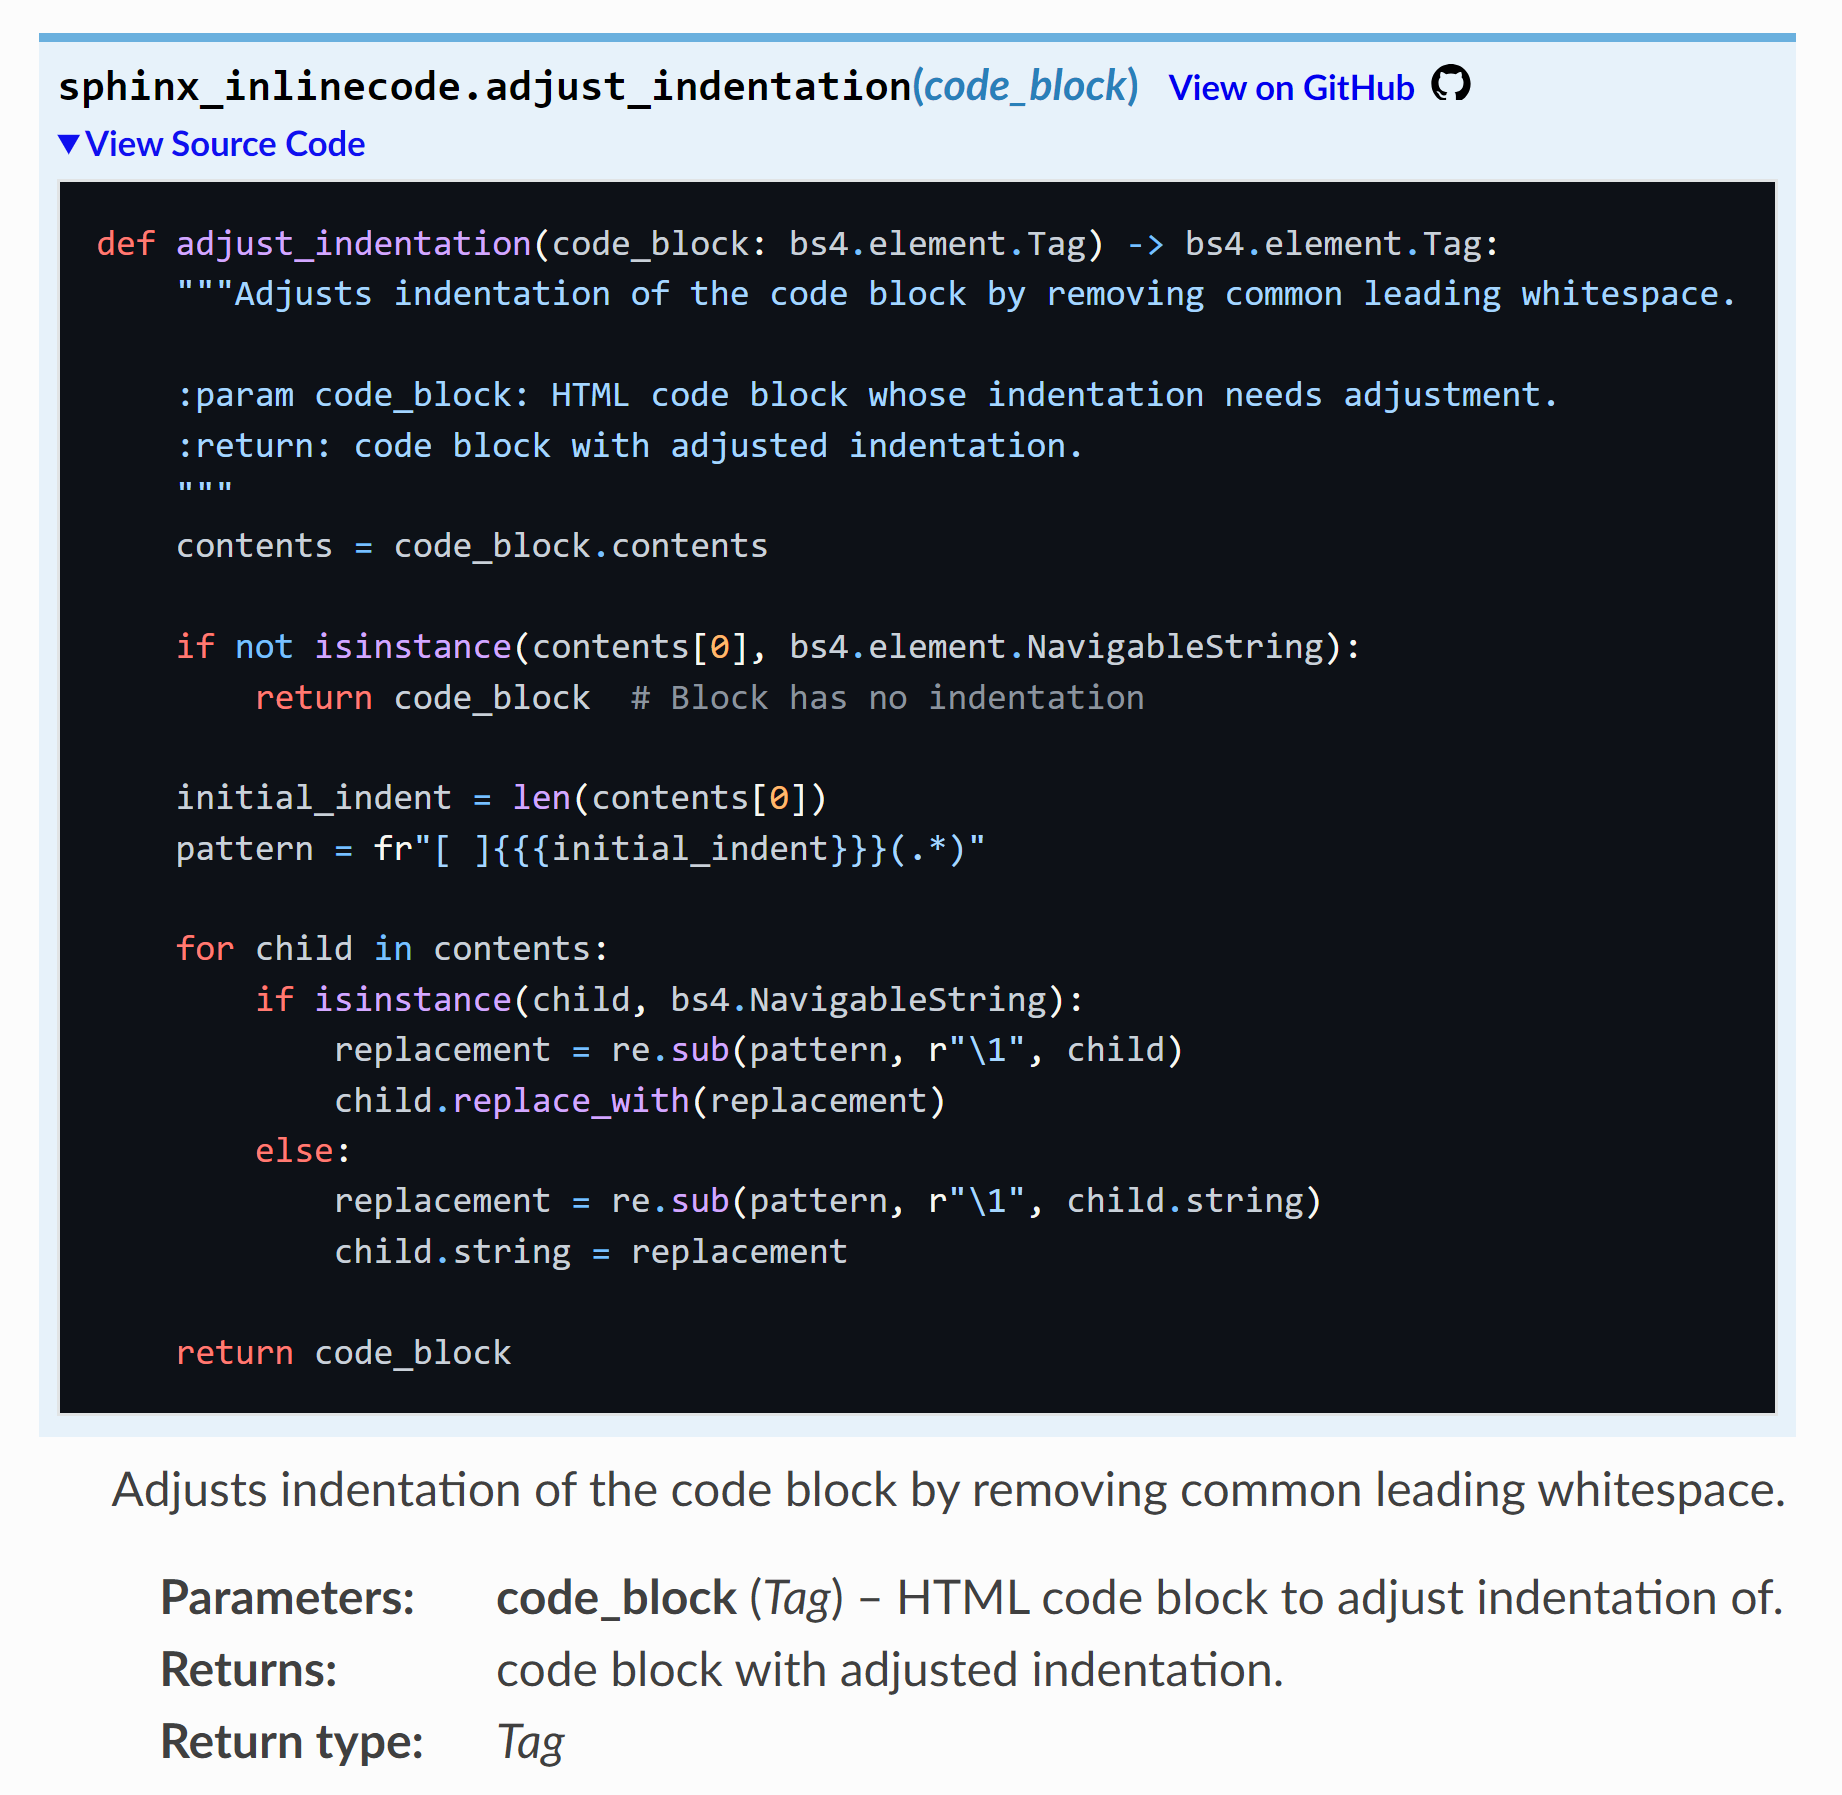
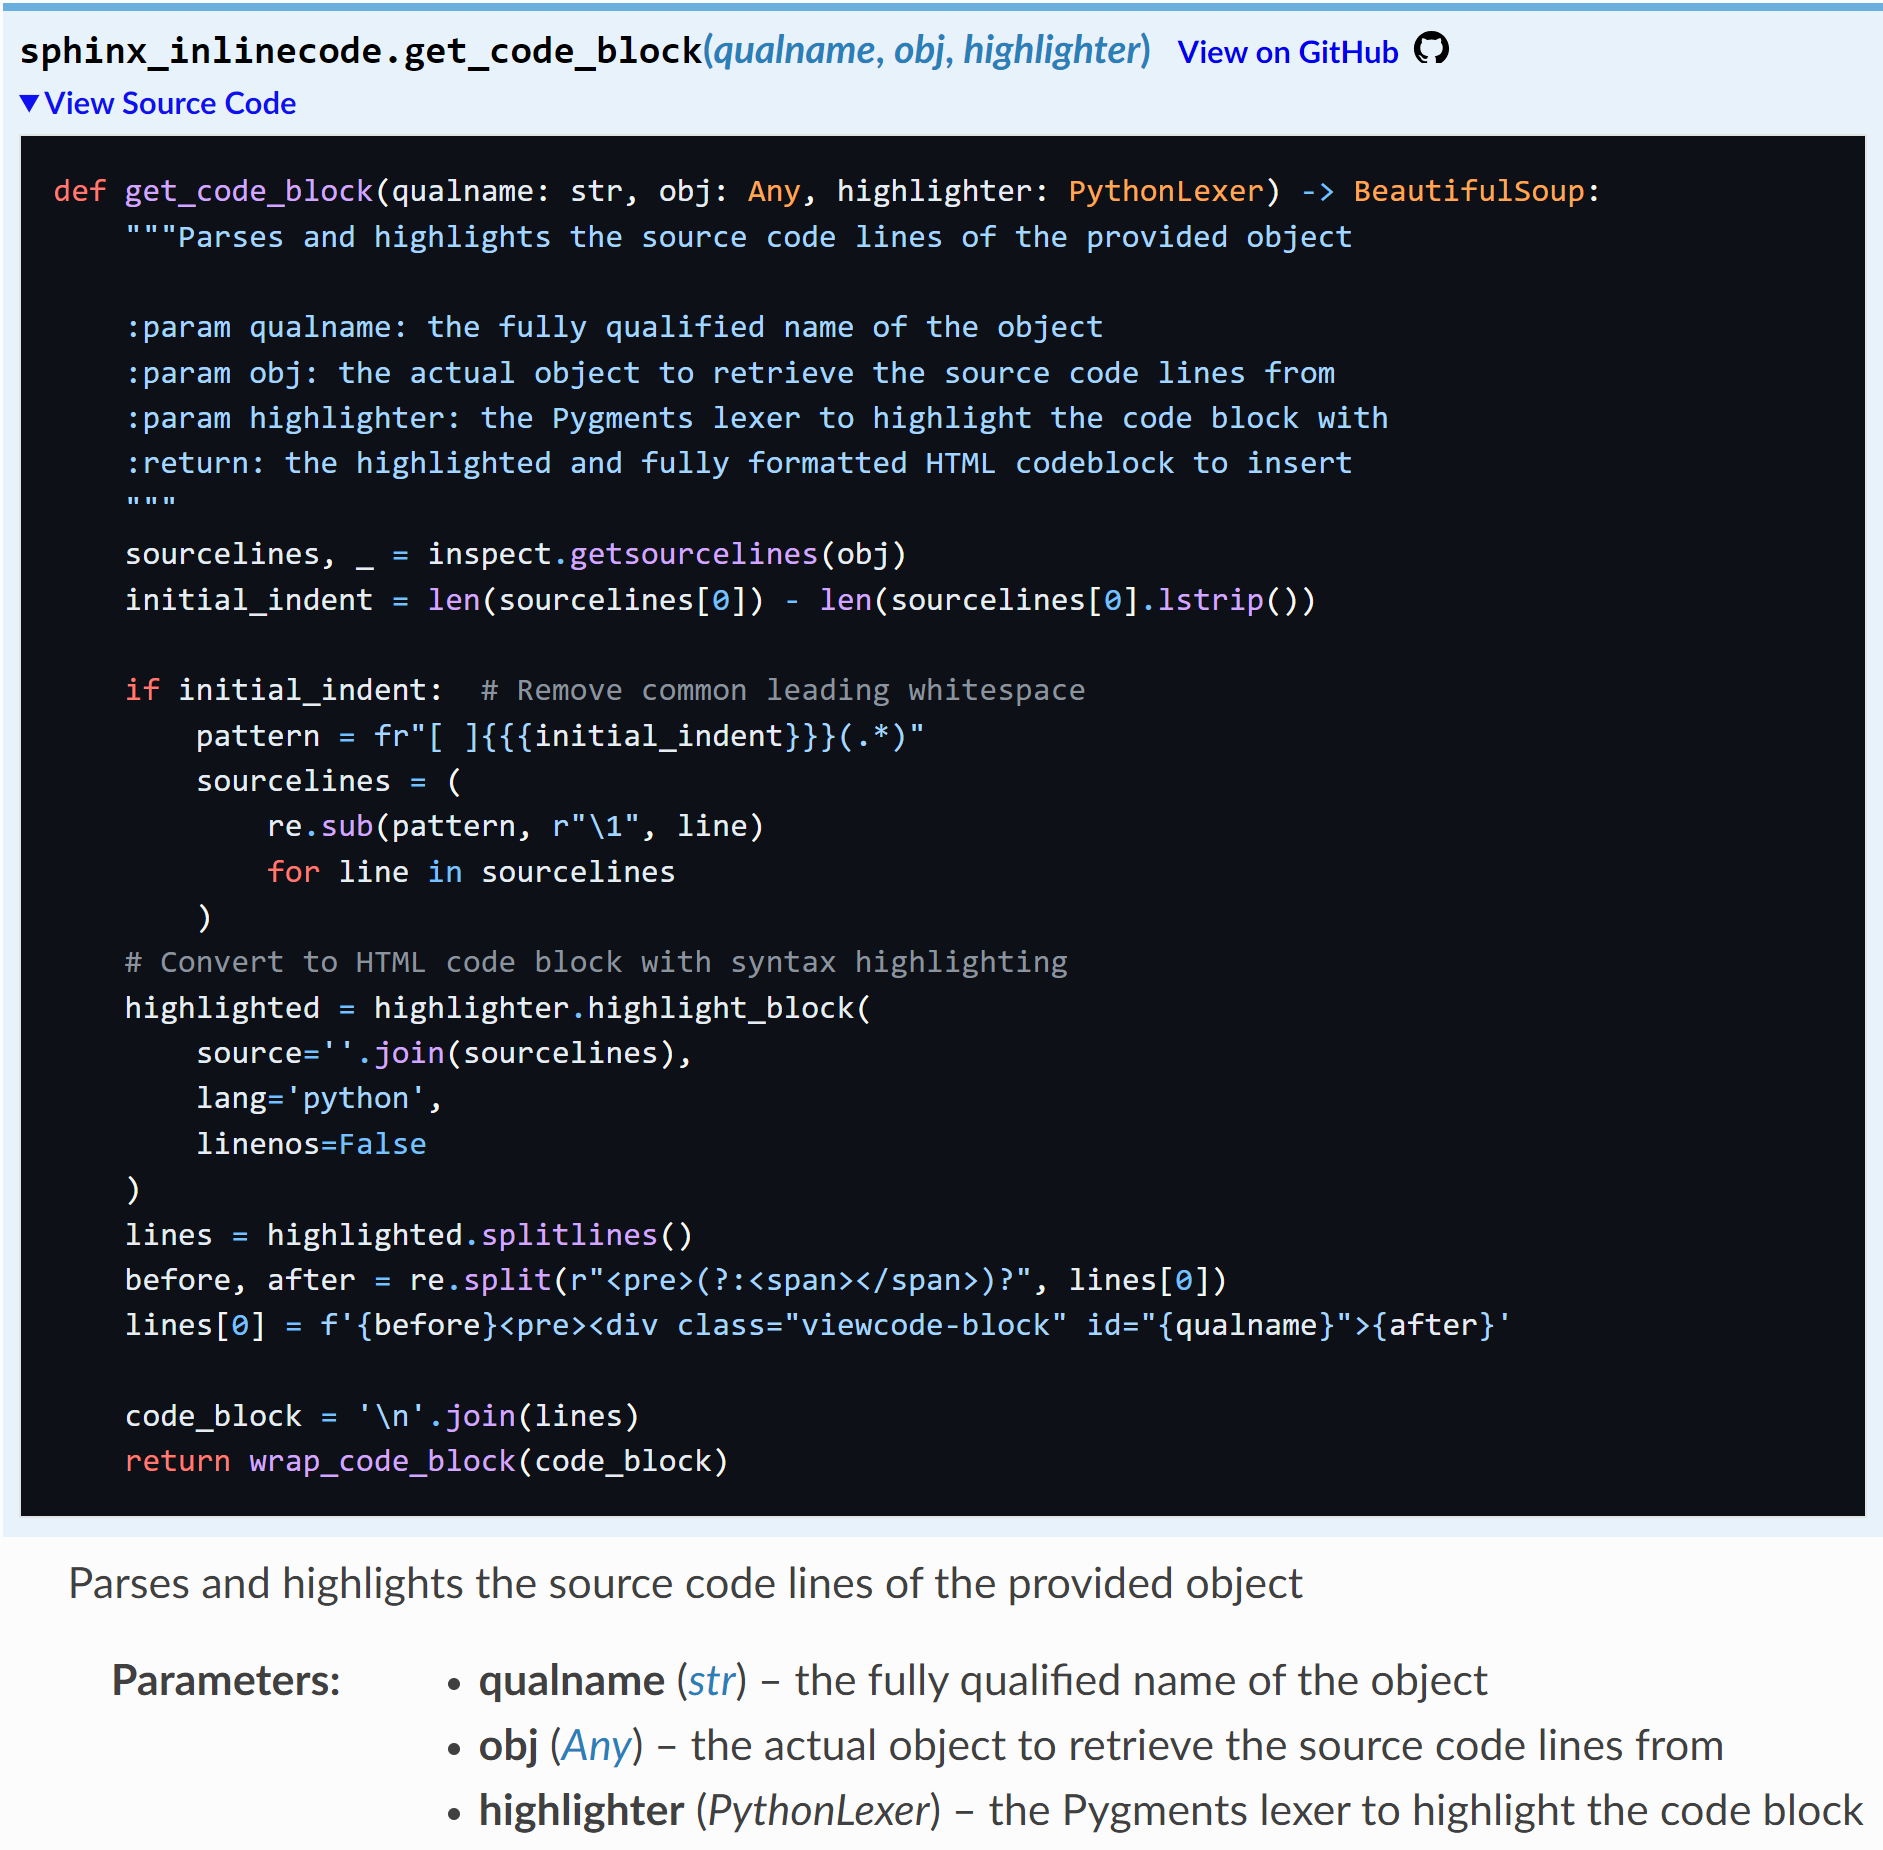
Add code blocks for properties and completely change the approach
* Insert code blocks for properties and cached properties
* Highlight source code blocks directly instead of parsing them from the output of `viewcode`

Changed region(s): [[0.0, 0.0, 1.0, 0.9983], [0.7427, 0.6864, 0.7736, 0.7175]]

diff --git a/sphinx_inlinecode/__init__.py b/sphinx_inlinecode/__init__.py
@@ -1,13 +1,25 @@
 import re
+import sys
 import sphinx
+import inspect
+import functools
+
 from pathlib import Path
-from typing import Dict, Any, List, Optional
+from typing import Dict, Any
+from bs4 import BeautifulSoup, Tag
+from functools import cached_property
+
+from sphinx import addnodes
 from sphinx.application import Sphinx
-from bs4 import BeautifulSoup, Tag, NavigableString
+from pygments.lexers.python import PythonLexer
 
 
 __version__ = "1.3.2"
 __author__ = 'Adam Korn <hello@dailykitten.net>'
+
+
+#: Object types that can't have code blocks inserted
+BAD_OBJTYPES = ("attribute", "data", "decorator")
 
 
 def setup(app: Sphinx) -> Dict[str, Any]:
@@ -28,96 +40,101 @@ def add_static_path(app) -> None:
     )
 
 
-def add_source_code(app, exception):
-    """Insert source code blocks into documentation entries."""
-    viewcode_dir = Path(app.outdir).joinpath("_modules").absolute()
-    if not viewcode_dir.exists():
+def add_source_code(app: Sphinx, exception) -> None:
+    """Inserts source code blocks into documentation entries."""
+    if app.builder.name != 'html':
         return
 
-    html_files = get_html_files(viewcode_dir.parent)
-    code_blocks = get_code_blocks(viewcode_dir)
+    highlighter = app.builder.highlighter
+    outdir = Path(app.builder.outdir)
+    objects = parse_py_domain(app)
 
-    for file in html_files:
-        if result := insert_source_code(file, code_blocks):
-            file.write_text(str(result), encoding='utf-8')
+    for doc in app.env.found_docs:  # Check if the file has any documentation entries
+        if app.env.get_doctree(doc).traverse(addnodes.desc_signature):
+            file = outdir.joinpath(f"{doc}.html")
+            add_code_blocks(file, objects, highlighter)
 
 
-def get_code_blocks(viewcode_dir: Path) -> Dict[str, Tag]:
-    """Retrieve code blocks from HTML files generated by :mod:`sphinx.ext.viewcode`
+def parse_py_domain(app) -> Dict[str, Any]:
+    """Parses all Python objects in the package from the :external:class:`~.BuildEnvironment`
 
-    :param viewcode_dir: path of the ``build/html/_modules`` directory
-    :return: mapping of fully qualified object names to their HTML code block
+    :returns: a dictionary mapping fully qualified object names to the actual objects
     """
-    files = get_html_files(viewcode_dir)
-    mapping = {}
+    py_objects = app.env.domaindata.get('py', {}).get("objects", {})
+    object_map = {}
 
-    for file in files:
-        soup = BeautifulSoup(file.read_text(encoding='utf-8'), 'html.parser')
-        code_blocks = soup.findAll('div', 'viewcode-block')
+    for qualname, entry in py_objects.items():
+        if entry.objtype in ("attribute", "data", "decorator"):
+            continue  # Cannot get source code lines
 
-        for block in code_blocks:
-            backlink = block.find("a", "viewcode-back")
-            qualname = backlink.get('href').split("#")[-1]
-            mapping[qualname] = block
+        parts = entry.node_id.removeprefix('module-').split('.')
 
-            # Remove internal link to documentation entry
-            backlink.replace_with()
+        if entry.objtype in ("class", "function", "module", "exception"):
+            module = '.'.join(parts[:-1]).removeprefix('module-')
+            fullname = parts[-1]
 
-    return mapping
+        elif entry.objtype in ("method", "property"):
+            module = '.'.join(parts[:-2])
+            fullname = '.'.join(parts[-2:])
+
+        else:
+            continue
+
+        submod = sys.modules.get(module)
+        if submod is None:
+            continue
+
+        obj = submod
+        for part in fullname.split('.'):
+            try:
+                obj = getattr(obj, part)
+            except AttributeError:
+                continue
+
+        if isinstance(obj, property):
+            obj = obj.fget
+        elif isinstance(obj, cached_property):
+            obj = obj.func
+
+        object_map[qualname] = obj
+
+    return object_map
 
 
-def get_html_files(root: Path) -> List[Path]:
-    """Retrieves all HTML files contained in the specified directory
-
-    :param root: path of the directory to search for HTML files in
-    :return: list of all HTML files in the directory and its subdirectories
-    """
-    files = []
-
-    for entry in root.iterdir():
-        if entry.is_file() and entry.suffix == ".html":
-            files.append(entry)
-        elif entry.is_dir():
-            files.extend(get_html_files(entry))
-
-    return files
-
-
-def insert_source_code(file: Path, code_blocks: Dict[str, Tag]) -> Optional[BeautifulSoup]:
-    """Inserts source code blocks into the specified documentation HTML file.
+def add_code_blocks(file: Path, objects: Dict[str, Any], highlighter: "PythonLexer") -> None:
+    """Inserts source code blocks into the provided HTML file and writes the output.
 
     :param file: path to the HTML file.
-    :param code_blocks: dictionary containing code block data.
-    :return: HTML content of the file, with all code blocks inserted
+    :param objects: dictionary containing the objects in the package
+    :param highlighter: the Pygments lexer to highlight source code blocks with
     """
     soup = BeautifulSoup(file.read_text(encoding='utf-8'), 'html.parser')
     doc_entries = soup.findAll("dt", "sig sig-object py")
 
-    if not doc_entries:
-        return
-
     for doc_entry in doc_entries:
-        viewcode_label = doc_entry.find("span", "viewcode-link")
-
-        if not viewcode_label:
+        if doc_entry.parent['class'][-1] in BAD_OBJTYPES:
             continue
 
-        viewcode_link = viewcode_label.parent
+        target = doc_entry.get('id')
+        viewcode_label = doc_entry.find("span", "viewcode-link")
 
-        if not (ref_id := doc_entry.get('id')):
-            ref_id = get_ref_id(viewcode_link)
+        if not target:
+            if not viewcode_label:
+                continue
+            else:
+                target = get_target(viewcode_label.parent)
 
-        # Insert formatted source code block after object signature.
-        code_block = wrap_code_block(code_blocks[ref_id])
+        # Highlight and insert the source code block after the object signature
+        code_block = get_code_block(target, objects[target], highlighter)
         doc_entry.append(code_block)
 
-        # Remove viewcode link
-        viewcode_link.replace_with()
+        if viewcode_label:  # Remove the viewcode link, if it exists
+            viewcode_label.parent.replace_with()
 
-    return soup
+    file.write_text(str(soup), encoding='utf-8')
 
 
-def get_ref_id(viewcode_link: Tag) -> str:
+def get_target(viewcode_link: Tag) -> str:
     """Parses the fully qualified object name from the viewcode internal reference
 
     :param viewcode_link: the viewcode internal reference
@@ -126,55 +143,49 @@ def get_ref_id(viewcode_link: Tag) -> str:
     return viewcode_link.get('href').removeprefix("_modules/").replace("html#", "").replace("/", ".")
 
 
-def wrap_code_block(code_block: Tag) -> BeautifulSoup:
-    """Wraps the given code block inside a <details> HTML element.
+def get_code_block(qualname: str, obj: Any, highlighter: PythonLexer) -> BeautifulSoup:
+    """Parses and highlights the source code lines of the provided object
 
-    :param code_block: HTML of the code block to wrap.
-    :return: the wrapped code block.
+    :param qualname: the fully qualified name of the object
+    :param obj: the actual object to retrieve the source code lines from
+    :param highlighter: the Pygments lexer to highlight the code block with
+    :return: the highlighted and fully formatted HTML codeblock to insert
     """
-    formatted_block = adjust_indentation(code_block)
-    html = """
+    sourcelines, _ = inspect.getsourcelines(obj)
+    initial_indent = len(sourcelines[0]) - len(sourcelines[0].lstrip())
+
+    if initial_indent:  # Remove common leading whitespace
+        pattern = fr"[ ]{{{initial_indent}}}(.*)"
+        sourcelines = (
+            re.sub(pattern, r"\1", line)
+            for line in sourcelines
+        )
+    # Convert to HTML code block with syntax highlighting
+    highlighted = highlighter.highlight_block(
+        source=''.join(sourcelines),
+        lang='python',
+        linenos=False
+    )
+    lines = highlighted.splitlines()
+    before, after = re.split(r"<pre>(?:<span></span>)?", lines[0])
+    lines[0] = f'{before}<pre><div class="viewcode-block" id="{qualname}">{after}'
+
+    code_block = '\n'.join(lines)
+    return wrap_code_block(code_block)
+
+
+def wrap_code_block(code_block: str) -> BeautifulSoup:
+    """Wraps the given code block inside a ``<details>`` HTML element
+
+    :param code_block: HTML of the code block to wrap
+    :return: the wrapped code block
+    """
+    html = f"""
     <details class="sphinx-inlinecode">
         <summary>
             <span class="pre">View Source Code</span>
         </summary>
-        <div class="highlight">
-            <pre>{adjusted_code_block}</pre>
-        </div>
+        {code_block}
     </details>
-    """.format(adjusted_code_block=formatted_block)
-    return BeautifulSoup(html, 'html.parser')
-
-
-def adjust_indentation(code_block: Tag) -> Tag:
-    """Adjusts indentation of the code block by removing common leading whitespace.
-
-    :param code_block: HTML code block whose indentation needs adjustment.
-    :return: code block with adjusted indentation.
     """
-    contents = code_block.contents
-    for child in list(contents):  # Remove leading newlines added in newer Sphinx versions
-        if child == '\n':
-            child.replace_with()
-        else:
-            break
-
-    if not isinstance(contents[0], NavigableString):
-        return code_block  # Block has no indentation
-
-    initial_indent = len(contents[0].lstrip('\n'))
-    pattern = fr"[ ]{{{initial_indent}}}(.*)"
-
-    for child in contents:
-        if isinstance(child, NavigableString):
-            replacement = re.sub(pattern, r"\1", child.lstrip('\n'))
-            child.replace_with(replacement)
-
-        elif child.string is None:  # A nested code block (in newer Sphinx versions)
-            adjust_indentation(child)
-
-        else:
-            replacement = re.sub(pattern, r"\1", child.string)
-            child.string = replacement
-
-    return code_block
+    return BeautifulSoup(html, 'html.parser')

diff --git a/README.rst b/README.rst
@@ -1,3 +1,9 @@
+.. |.functools.cached_property+cached_property| replace:: ``cached_property``
+.. _.functools.cached_property+cached_property: https://docs.python.org/3/library/functools.html#functools.cached_property
+.. |.property| replace:: ``property``
+.. _.property: https://docs.python.org/3/library/functions.html#property
+.. |.sphinx.ext.viewcode| replace:: ``sphinx.ext.viewcode``
+.. _.sphinx.ext.viewcode: https://www.sphinx-doc.org/en/master/usage/extensions/viewcode.html#module-sphinx.ext.viewcode
 
 
 .. meta::
@@ -39,7 +45,8 @@ sphinx-inlinecode
 
 
 
-|
+Unlike |.sphinx.ext.viewcode|_, source code blocks will also be added for |.property|_ and |.functools.cached_property+cached_property|_ entries
+
 
 Installation
 ~~~~~~~~~~~~
@@ -70,3 +77,4 @@ Full documentation can be found on |RTD|_
 
 .. |RTD| replace:: ReadTheDocs
 .. _RTD: https://sphinx-inlinecode.readthedocs.io/en/latest/
+

diff --git a/docs/source/index.rst b/docs/source/index.rst
@@ -40,11 +40,12 @@ sphinx-inlinecode
 
 .. only:: html
 
-   .. autofunction:: sphinx_inlinecode.adjust_indentation
+   .. autofunction:: sphinx_inlinecode.get_code_block
       :noindex:
 
 
-|
+Unlike :mod:`sphinx.ext.viewcode`, source code blocks will also be added for :external:class:`property` and :external:func:`cached_property <functools.cached_property>` entries
+
 
 Installation
 ~~~~~~~~~~~~
